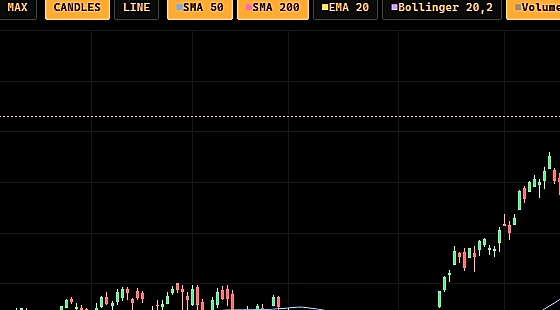
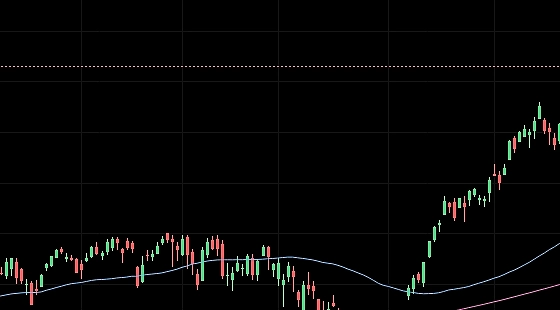
fix(landing): perfect alignment for 7 feature cards with uniform width, centered row, and clean content crops

diff --git a/public/css/login-page.css b/public/css/login-page.css
@@ -722,18 +722,28 @@ html.theme-light .login-theme-btn:hover {
 }
 
 .feature-categories-row {
-  display: grid;
-  gap: 16px;
+  max-width: 1200px;
+  margin-left: auto;
+  margin-right: auto;
 }
 
 .feature-categories-row.row-four {
+  display: grid;
   grid-template-columns: repeat(4, 1fr);
+  gap: 16px;
   margin-top: 36px;
 }
 
 .feature-categories-row.row-three {
-  grid-template-columns: repeat(3, 1fr);
+  display: flex;
+  justify-content: center;
+  gap: 16px;
   margin-top: 16px;
+}
+
+.feature-categories-row.row-three .cat-card {
+  width: calc((100% - 48px) / 4);
+  flex: none;
 }
 
 .cat-card {
@@ -747,8 +757,9 @@ html.theme-light .login-theme-btn:hover {
   flex-direction: row;
   align-items: stretch;
   justify-content: space-between;
-  height: 125px;
+  height: 135px;
   position: relative;
+  text-decoration: none;
 }
 
 .cat-card:hover {
@@ -763,12 +774,12 @@ html.theme-light .login-theme-btn:hover {
   display: flex;
   flex-direction: column;
   justify-content: space-between;
-  padding: 16px 14px;
+  padding: 18px 16px;
   z-index: 2;
-  min-width: 105px;
-  max-width: 120px;
+  min-width: 110px;
+  max-width: 128px;
   flex-shrink: 0;
-  background: linear-gradient(90deg, #090a0f 85%, transparent 100%);
+  background: #090a0f;
 }
 
 .cat-card-title {
@@ -781,14 +792,16 @@ html.theme-light .login-theme-btn:hover {
 
 .cat-card-arrow {
   color: #ffffff;
-  font-size: 18px;
-  font-weight: 600;
+  font-size: 20px;
+  font-weight: 500;
+  line-height: 1;
   transition: all 0.2s ease;
+  display: inline-block;
 }
 
 .cat-card:hover .cat-card-arrow {
   color: #ffa028;
-  transform: translateX(4px);
+  transform: translateX(5px);
 }
 
 .cat-card-thumb {
@@ -816,8 +829,11 @@ html.theme-light .login-theme-btn:hover {
 
 .cat-thumb-fade {
   position: absolute;
-  inset: 0;
-  background: linear-gradient(90deg, #090a0f 0%, rgba(9, 10, 15, 0.4) 8%, transparent 20%);
+  top: 0;
+  bottom: 0;
+  left: 0;
+  width: 22px;
+  background: linear-gradient(90deg, #090a0f 0%, transparent 100%);
   pointer-events: none;
 }
 
@@ -1859,7 +1875,13 @@ html.theme-light .login-theme-btn:hover {
   .hero-title { font-size: 42px; }
   .pillars-grid { grid-template-columns: repeat(2, 1fr); }
   .feature-categories-row.row-four,
-  .feature-categories-row.row-three { grid-template-columns: repeat(2, 1fr); }
+  .feature-categories-row.row-three { 
+    display: grid;
+    grid-template-columns: repeat(2, 1fr); 
+  }
+  .feature-categories-row.row-three .cat-card {
+    width: auto;
+  }
   .showcase-row, .showcase-row.reverse { grid-template-columns: 1fr; gap: 30px; }
   .metrics-grid { grid-template-columns: repeat(2, 1fr); gap: 30px; }
   .hardware-box { grid-template-columns: 1fr; }
@@ -1878,8 +1900,11 @@ html.theme-light .login-theme-btn:hover {
   .feature-categories-row.row-four,
   .feature-categories-row.row-three, 
   .metrics-grid { grid-template-columns: 1fr; }
-  .cat-card { height: 105px; }
-  .cat-card-text { padding: 16px 14px; min-width: 110px; }
+  .feature-categories-row.row-three .cat-card {
+    width: 100%;
+  }
+  .cat-card { height: 110px; }
+  .cat-card-text { padding: 14px 12px; min-width: 100px; }
   .hero-clocks-bar { flex-wrap: wrap; justify-content: center; gap: 10px; }
   .footer-top-grid { grid-template-columns: 1fr; }
   .footer-bottom-bar { flex-direction: column; gap: 12px; text-align: center; }
@@ -2013,16 +2038,25 @@ html.theme-light .showcase-bullets li strong {
 }
 
 html.theme-light .cat-card {
-  background: #0b0f19 !important;
-  border-color: rgba(255, 255, 255, 0.15) !important;
+  background: #ffffff !important;
+  border-color: #cbd5e1 !important;
+  box-shadow: 0 4px 14px rgba(0, 0, 0, 0.05);
+}
+
+html.theme-light .cat-card-text {
+  background: #ffffff !important;
 }
 
 html.theme-light .cat-card-title {
-  color: #ffffff !important;
+  color: #0f172a !important;
 }
 
 html.theme-light .cat-card-arrow {
-  color: #ffffff !important;
+  color: #0f172a !important;
+}
+
+html.theme-light .cat-thumb-fade {
+  background: linear-gradient(90deg, #ffffff 0%, transparent 100%);
 }
 
 html.theme-light .auth-input-group input {

diff --git a/scripts/generate-card-crops.js b/scripts/generate-card-crops.js
@@ -2,50 +2,51 @@ import { execSync } from "node:child_process";
 import fs from "node:fs";
 import path from "node:path";
 
-// Ultra-High-DPI Razor-Sharp Close-up Crops from 1400x900 Lossless Source Assets
-// Target aspect ratio ~ 1.8:1 (560x310), sharpened and contrast-enhanced for maximum crispness
+// Clean, Perfectly-Framed High-DPI Crops from 1400x900 Assets
+// Bypasses the top amber window header to eliminate cut-off header strips.
+// Centers directly on the live data, candlesticks, and quantitative tables.
 const CROPS = [
   {
     name: "card-crop-research",
-    // Focus on DCF Valuation Model intrinsic value + sensitivity matrix
+    // Focus cleanly on DCF Valuation Model intrinsic value & sensitivity matrix
     src: "public/manual/assets/dcf-valuation-model.png",
-    crop: "crop=560:310:20:90",
+    crop: "crop=560:310:30:130",
   },
   {
     name: "card-crop-news",
-    // Focus on Economic Calendar indicators + high impact badges
+    // Focus cleanly on Macro Economic Calendar events and consensus prints
     src: "public/manual/assets/economic-calendar-eco.png",
-    crop: "crop=560:310:20:90",
+    crop: "crop=560:310:20:130",
   },
   {
     name: "card-crop-access",
-    // Focus on WEI World Equities Board benchmark indices + green/red changes
+    // Focus cleanly on WEI World Equities Board benchmark indices
     src: "public/manual/assets/world-markets-wei.png",
-    crop: "crop=560:310:15:90",
+    crop: "crop=560:310:20:130",
   },
   {
     name: "card-crop-charts",
-    // Focus on Candlestick price chart with green/red candles and moving average ribbons
+    // Focus directly on the glowing green/red candlesticks and moving average lines
     src: "public/manual/assets/chart-technical-analysis-gp.png",
-    crop: "crop=560:310:230:130",
+    crop: "crop=560:310:240:180",
   },
   {
     name: "card-crop-collaboration",
-    // Focus on multi-pane synchronized workstation quadrant panels
+    // Focus cleanly on the 4-quadrant multi-panel workstation layout
     src: "public/manual/assets/dashboard-workspace-overview.png",
-    crop: "crop=560:310:120:70",
+    crop: "crop=560:310:140:120",
   },
   {
     name: "card-crop-education",
-    // Focus on AI Financial Assistant with natural language prompt + formula breakdown
+    // Focus cleanly on AI Research Desk query & formula breakdown
     src: "public/manual/assets/ai-research-assistant-ask.png",
-    crop: "crop=560:310:35:95",
+    crop: "crop=560:310:40:135",
   },
   {
     name: "card-crop-portfolio",
-    // Focus on Crisis Lab historical scenario shocks with drawdown bars
+    // Focus cleanly on Crisis Lab macroeconomic scenario drawdown bars
     src: "public/manual/assets/portfolio-stress-testing.png",
-    crop: "crop=560:310:20:100",
+    crop: "crop=560:310:20:135",
   },
 ];
 
@@ -54,17 +55,15 @@ for (const c of CROPS) {
   const outWebp = path.join("public/screenshots", `${c.name}.webp`);
   const outPng = path.join("public/screenshots", `${c.name}.png`);
 
-  console.log(`Generating crystal-clear crop for ${c.name} from ${inputFile}...`);
-  // Generate ultra-crisp WebP with unsharp sharpening & contrast enhancement
+  console.log(`Generating clean crop for ${c.name}...`);
   execSync(
-    `ffmpeg -y -i "${inputFile}" -vf "${c.crop},unsharp=5:5:1.0:5:5:0.0,eq=contrast=1.12:brightness=0.03" -quality 98 "${outWebp}"`,
+    `ffmpeg -y -i "${inputFile}" -vf "${c.crop},unsharp=5:5:0.8:3:3:0.0,eq=contrast=1.08:brightness=0.02" -quality 98 "${outWebp}"`,
     { stdio: "pipe" }
   );
-  // Generate PNG fallback
   execSync(
-    `ffmpeg -y -i "${inputFile}" -vf "${c.crop},unsharp=5:5:1.0:5:5:0.0,eq=contrast=1.12:brightness=0.03" "${outPng}"`,
+    `ffmpeg -y -i "${inputFile}" -vf "${c.crop},unsharp=5:5:0.8:3:3:0.0,eq=contrast=1.08:brightness=0.02" "${outPng}"`,
     { stdio: "pipe" }
   );
 }
 
-console.log("All 7 ultra-high-DPI crops generated successfully.");
+console.log("All 7 clean crops successfully updated.");
